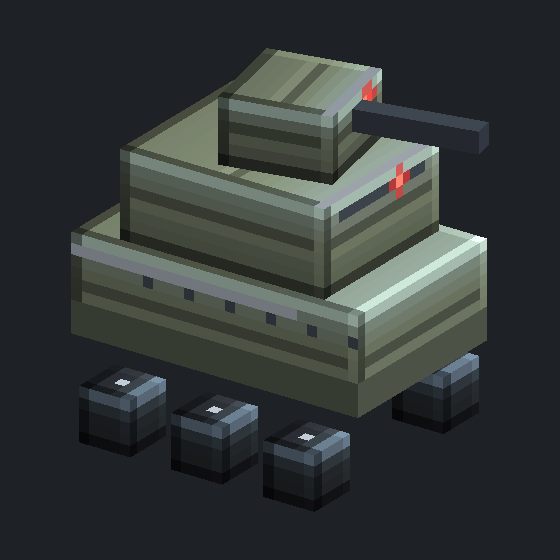
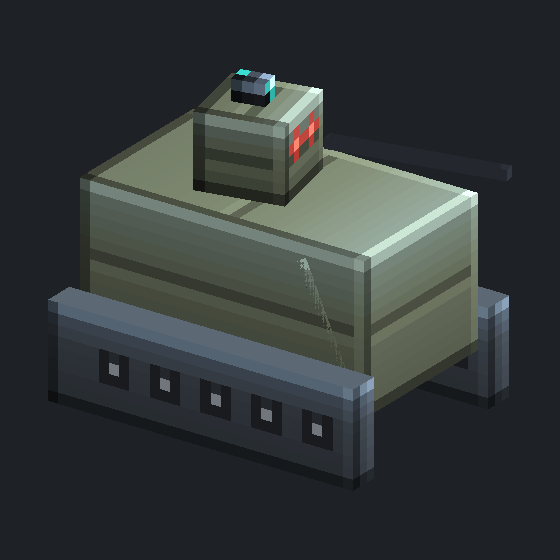
Rework the IFV: dominant chassis, small turret, connected tracks
The IFV read as a tiered-cake stack with an oversized turret and detached
floating road wheels. Rebuilt it as a real fighting vehicle: one big
dominant hull with a sloped glacis, a deliberately small tracking turret
carrying a thin autocannon (chassis mass >> gun, the IFV-not-APC point),
and two continuous track runs that sit flush to the hull with road wheels
baked into the tracks — the running gear is connected now, not floating.

Claude-Session: https://claude.ai/code/session_01JW9AUHaYR6Y5ETvog8dMhH

diff --git a/common/src/main/java/dev/rheava/program7/client/render/IFVModel.java b/common/src/main/java/dev/rheava/program7/client/render/IFVModel.java
@@ -12,58 +12,53 @@ import net.minecraft.client.render.entity.model.EntityModelLayer;
 import net.minecraft.client.render.entity.model.SinglePartEntityModel;
 
 /**
- * The Tier 3 infantry fighting vehicle: a stepped lower and upper hull
- * carrying a small tracking turret with a long cannon, riding on three
- * pairs of road wheels per side that roll with ground travel.
+ * The Tier 3 infantry fighting vehicle: a big, dominant armored chassis
+ * with a sloped glacis, riding on two continuous tracks that sit flush to
+ * the hull. What makes it an IFV and not an APC is the small tracking
+ * turret — modest next to all that hull — carrying a thin, high-velocity
+ * autocannon rather than a big main gun.
  */
 public class IFVModel extends SinglePartEntityModel<IFVEntity> {
 	public static final EntityModelLayer LAYER = new EntityModelLayer(Program7.id("ifv"), "main");
 
 	private final ModelPart root;
 	private final ModelPart turret;
-	private final ModelPart wheelFrontLeft;
-	private final ModelPart wheelFrontRight;
-	private final ModelPart wheelMidLeft;
-	private final ModelPart wheelMidRight;
-	private final ModelPart wheelBackLeft;
-	private final ModelPart wheelBackRight;
 
 	public IFVModel(ModelPart root) {
 		this.root = root;
-		ModelPart body = root.getChild("body");
-		this.turret = body.getChild("turret");
-		this.wheelFrontLeft = root.getChild("wheel_fl");
-		this.wheelFrontRight = root.getChild("wheel_fr");
-		this.wheelMidLeft = root.getChild("wheel_ml");
-		this.wheelMidRight = root.getChild("wheel_mr");
-		this.wheelBackLeft = root.getChild("wheel_bl");
-		this.wheelBackRight = root.getChild("wheel_br");
+		this.turret = root.getChild("body").getChild("turret");
 	}
 
 	public static TexturedModelData getTexturedModelData() {
 		ModelData modelData = new ModelData();
 		ModelPartData root = modelData.getRoot();
 
+		// The chassis is the mass of the vehicle: one big hull plus two track
+		// runs that reach the ground flush against it — no floating wheels.
 		ModelPartData body = root.addChild("body",
 				ModelPartBuilder.create()
-						.uv(0, 0).cuboid(-9.0f, -4.0f, -14.0f, 18.0f, 9.0f, 28.0f)
-						.uv(0, 38).cuboid(-8.0f, -12.0f, -10.0f, 16.0f, 8.0f, 20.0f),
+						.uv(0, 0).cuboid(-8.0f, -6.0f, -14.0f, 16.0f, 14.0f, 28.0f)
+						.uv(0, 44).cuboid(8.0f, 4.0f, -15.0f, 3.0f, 9.0f, 30.0f)
+						.uv(0, 44).cuboid(-11.0f, 4.0f, -15.0f, 3.0f, 9.0f, 30.0f),
 				ModelTransform.pivot(0.0f, 11.0f, 0.0f));
 
-		body.addChild("turret",
+		// Sloped frontal glacis — leans up and back from the lower front.
+		body.addChild("glacis",
 				ModelPartBuilder.create()
-						.uv(73, 38).cuboid(-5.0f, -6.0f, -5.0f, 10.0f, 6.0f, 10.0f)
-						.uv(73, 55).cuboid(-1.0f, -5.0f, -16.0f, 2.0f, 2.0f, 11.0f),
-				ModelTransform.pivot(0.0f, -12.0f, -2.0f));
+						.uv(0, 90).cuboid(-8.0f, -14.0f, 0.0f, 16.0f, 14.0f, 2.0f),
+				ModelTransform.of(0.0f, 8.0f, -14.0f, -0.42f, 0.0f, 0.0f));
 
-		ModelPartBuilder wheel = ModelPartBuilder.create()
-				.uv(93, 0).cuboid(-2.5f, -2.5f, -2.5f, 5.0f, 5.0f, 5.0f);
-		root.addChild("wheel_fl", wheel, ModelTransform.pivot(9.0f, 21.5f, -9.0f));
-		root.addChild("wheel_fr", wheel, ModelTransform.pivot(-9.0f, 21.5f, -9.0f));
-		root.addChild("wheel_ml", wheel, ModelTransform.pivot(9.0f, 21.5f, 0.0f));
-		root.addChild("wheel_mr", wheel, ModelTransform.pivot(-9.0f, 21.5f, 0.0f));
-		root.addChild("wheel_bl", wheel, ModelTransform.pivot(9.0f, 21.5f, 9.0f));
-		root.addChild("wheel_br", wheel, ModelTransform.pivot(-9.0f, 21.5f, 9.0f));
+		// Small turret, offset slightly to the rear, with a thin autocannon
+		// and a commander's sight — deliberately dwarfed by the chassis.
+		ModelPartData turret = body.addChild("turret",
+				ModelPartBuilder.create()
+						.uv(90, 0).cuboid(-4.0f, -7.0f, -4.0f, 8.0f, 7.0f, 8.0f)
+						.uv(90, 44).cuboid(-0.5f, -5.0f, -22.0f, 1.0f, 1.0f, 16.0f),
+				ModelTransform.pivot(0.0f, -6.0f, 2.0f));
+		turret.addChild("sight",
+				ModelPartBuilder.create()
+						.uv(90, 64).cuboid(-1.0f, -9.0f, -1.0f, 2.0f, 2.0f, 3.0f),
+				ModelTransform.pivot(0.0f, 0.0f, 0.0f));
 
 		return TexturedModelData.of(modelData, 128, 128);
 	}
@@ -72,14 +67,6 @@ public class IFVModel extends SinglePartEntityModel<IFVEntity> {
 	public void setAngles(IFVEntity entity, float limbAngle, float limbDistance,
 			float animationProgress, float headYaw, float headPitch) {
 		this.turret.yaw = headYaw * (float) (Math.PI / 180.0);
-
-		float roll = limbAngle * 0.6f;
-		this.wheelFrontLeft.pitch = roll;
-		this.wheelFrontRight.pitch = roll;
-		this.wheelMidLeft.pitch = roll;
-		this.wheelMidRight.pitch = roll;
-		this.wheelBackLeft.pitch = roll;
-		this.wheelBackRight.pitch = roll;
 	}
 
 	@Override

diff --git a/tools/render_models.py b/tools/render_models.py
@@ -443,16 +443,20 @@ HEAVY_ATTACK_PARTS = [
 ]
 
 IFV_PARTS = [
-    {"origin": (-9, -4, -14), "size": (18, 9, 28), "uv": (0, 0), "ops": [("move", (0, 11, 0))]},
-    {"origin": (-8, -12, -10), "size": (16, 8, 20), "uv": (0, 38), "ops": [("move", (0, 11, 0))]},
-    # turret (body child at 0,-12,-2), posed traversed for the preview
-    {"origin": (-5, -6, -5), "size": (10, 6, 10), "uv": (73, 38),
-     "ops": [("roty", -12), ("move", (0, -1, -2))]},
-    {"origin": (-1, -5, -16), "size": (2, 2, 11), "uv": (73, 55),
-     "ops": [("roty", -12), ("move", (0, -1, -2))]},
-] + [
-    {"origin": (-2.5, -2.5, -2.5), "size": (5, 5, 5), "uv": (93, 0), "ops": [("move", (x, 21.5, z))]}
-    for x in (-9, 9) for z in (-9, 0, 9)
+    # big dominant chassis + two ground-flush track runs
+    {"origin": (-8, -6, -14), "size": (16, 14, 28), "uv": (0, 0), "ops": [("move", (0, 11, 0))]},
+    {"origin": (8, 4, -15), "size": (3, 9, 30), "uv": (0, 44), "ops": [("move", (0, 11, 0))]},
+    {"origin": (-11, 4, -15), "size": (3, 9, 30), "uv": (0, 44), "ops": [("move", (0, 11, 0))]},
+    # sloped glacis (body child at 0,8,-14, pitch 0.42)
+    {"origin": (-8, -14, 0), "size": (16, 14, 2), "uv": (0, 90),
+     "ops": [("rotx", -24.1), ("move", (0, 19, -14))]},
+    # small turret (body child at 0,-6,2), posed traversed for the preview
+    {"origin": (-4, -7, -4), "size": (8, 7, 8), "uv": (90, 0),
+     "ops": [("roty", -12), ("move", (0, 5, 2))]},
+    {"origin": (-0.5, -5, -22), "size": (1, 1, 16), "uv": (90, 44),
+     "ops": [("roty", -12), ("move", (0, 5, 2))]},
+    {"origin": (-1, -9, -1), "size": (2, 2, 3), "uv": (90, 64),
+     "ops": [("roty", -12), ("move", (0, 5, 2))]},
 ]
 
 GUNBOAT_PARTS = [
